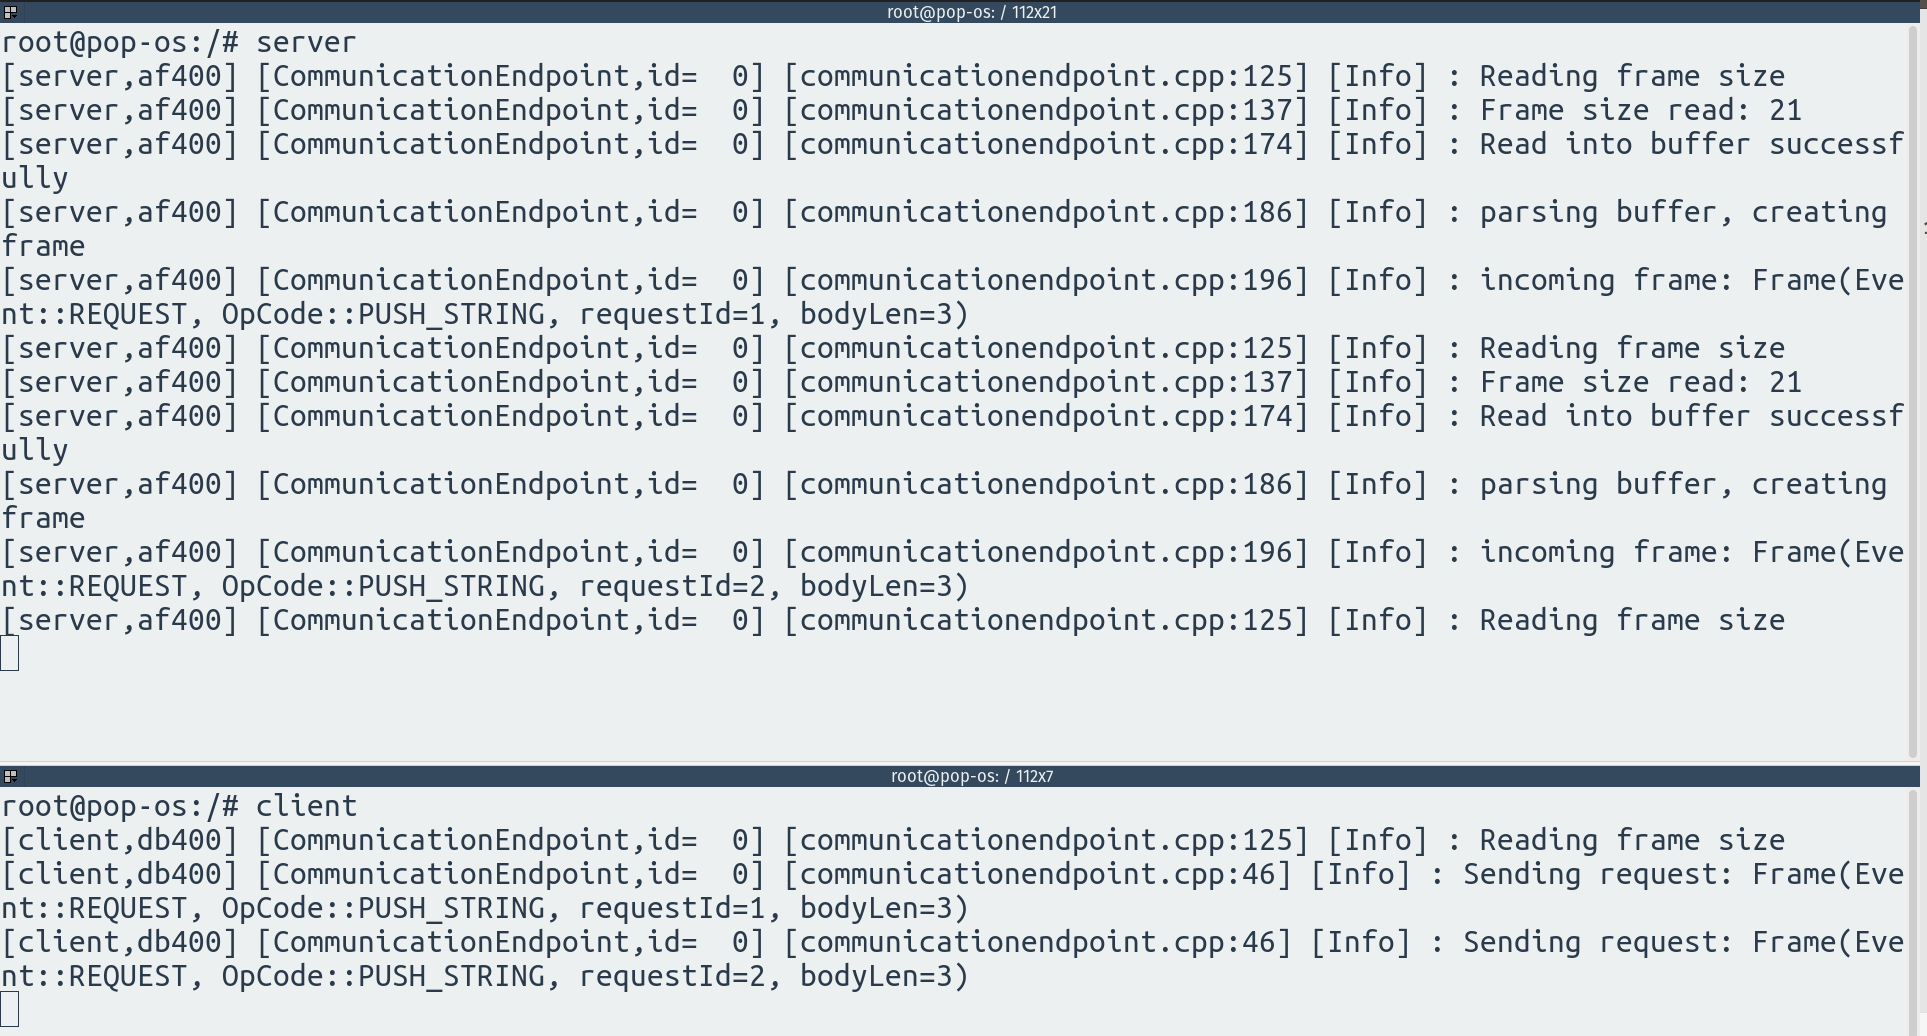
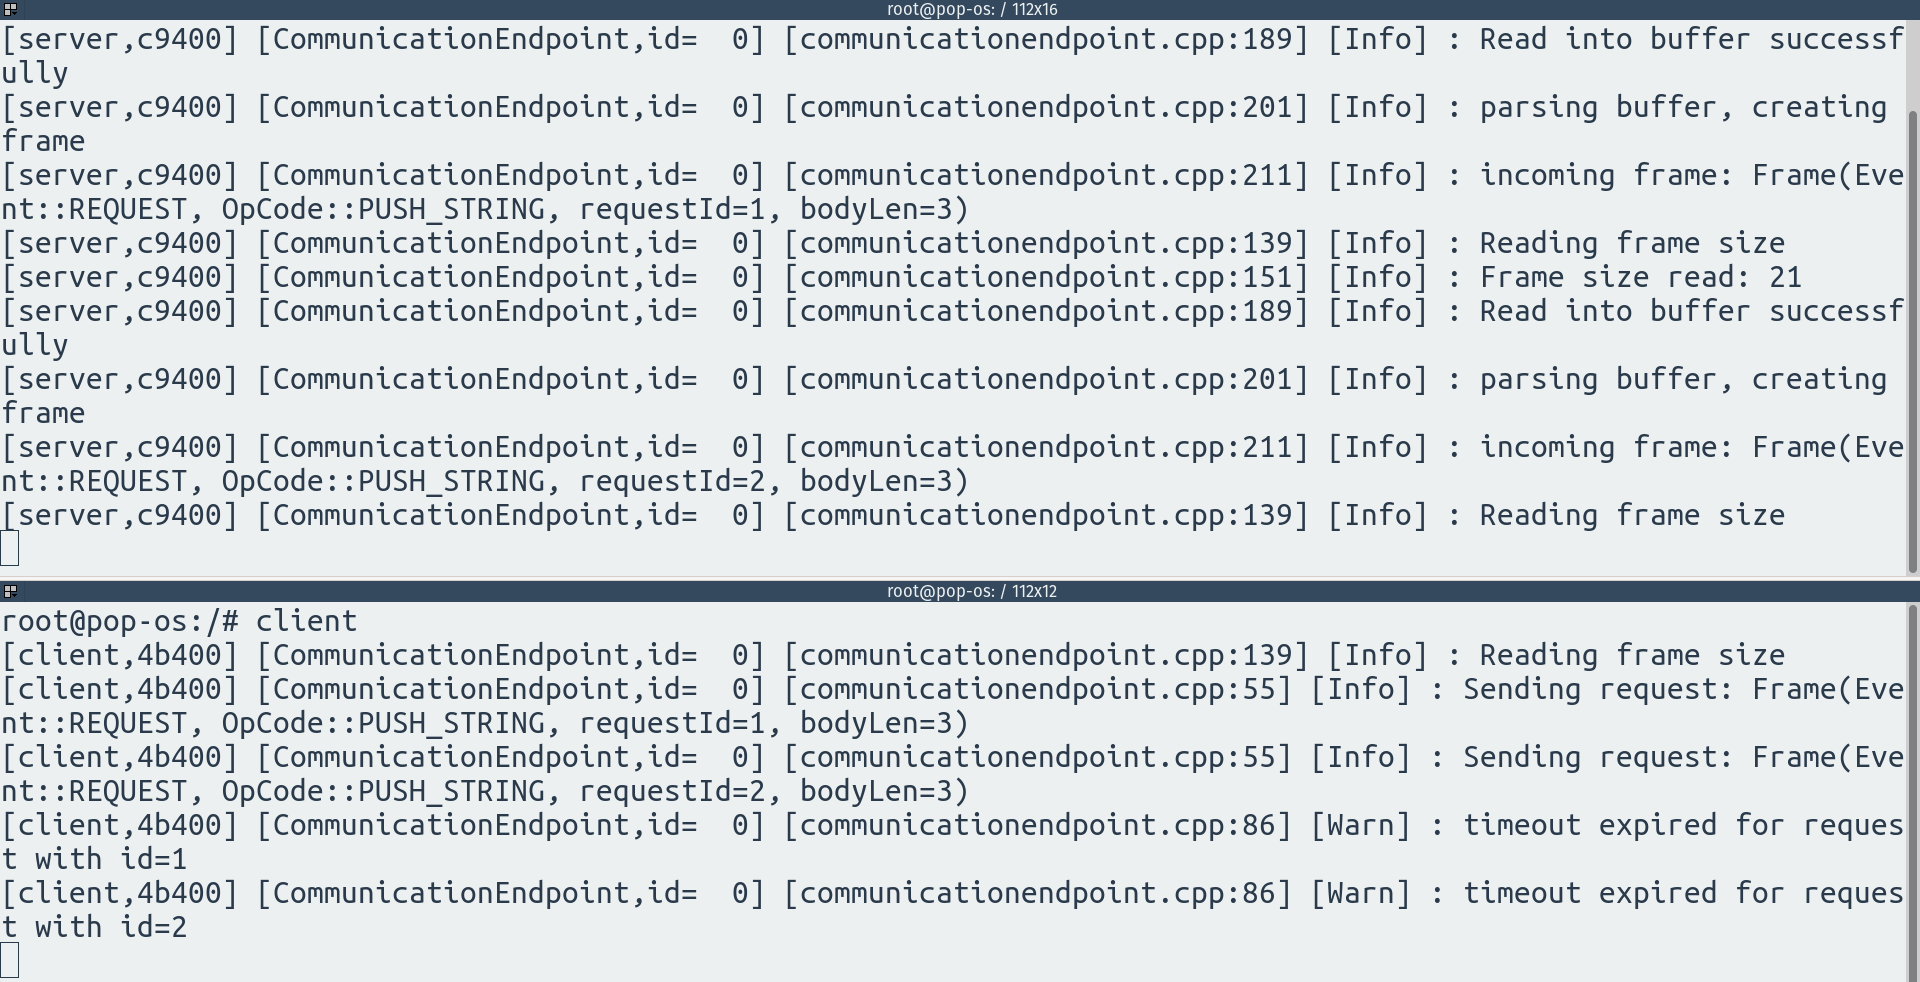
Fix timeout bug, add invalidation callback

Changed region(s): [[0.0, 0.0, 1.0, 1.0]]

diff --git a/libs/communicationendpoint/src/communicationendpoint.cpp b/libs/communicationendpoint/src/communicationendpoint.cpp
@@ -12,12 +12,16 @@ using namespace protocol;
 using error_code = boost::system::error_code;
 
 std::shared_ptr<CommunicationEndpoint>
-    CommunicationEndpoint::create(io_context         &context,
-                                  ip::tcp::socket     socket,
-                                  request_callback_fn requestCallback)
+    CommunicationEndpoint::create(io_context              &context,
+                                  ip::tcp::socket          socket,
+                                  request_callback_fn      requestCallback,
+                                  invalidation_callback_fn invalidationCallback)
 {
     return std::shared_ptr<CommunicationEndpoint>{ new CommunicationEndpoint{
-        context, std::move(socket), std::move(requestCallback) } };
+        context,
+        std::move(socket),
+        std::move(requestCallback),
+        std::move(invalidationCallback) } };
 }
 
 void CommunicationEndpoint::run()
@@ -34,12 +38,17 @@ void CommunicationEndpoint::sendRequest(request::Request     arg_request,
                                         response_callback_fn arg_responseCallback,
                                         const boost::posix_time::milliseconds &timeout)
 {
+    if (arg_responseCallback == nullptr)
+    {
+        arg_responseCallback = [](std::optional<protocol::response::Response>,
+                                  protocol::request::Request) {};
+    }
+
     if (!arg_request.valid() ||
         pendingRequests_.find(arg_request.requestId()) != pendingRequests_.end())
     {
         ID_LOGE << "Invalid request, executing response callback right away";
-        if (arg_responseCallback != nullptr)
-            arg_responseCallback(/* response */ {}, std::move(arg_request));
+        arg_responseCallback(/* response */ {}, std::move(arg_request));
         return;
     }
 
@@ -62,6 +71,7 @@ void CommunicationEndpoint::sendRequest(request::Request     arg_request,
             if (error)
             {
                 ID_LOGE << "Failed to write request frame";
+                invalidate();
             }
         });
 
@@ -70,16 +80,13 @@ void CommunicationEndpoint::sendRequest(request::Request     arg_request,
         [this, self = shared_from_this(), pendingRequest = std::move(pendingRequest), id](
             const error_code &error)
         {
-            if (!error)
+            if (error)
                 return;
 
             ID_LOGW << "timeout expired for request with id=" << id;
 
-            if (pendingRequest->responseCallback != nullptr)
-            {
-                pendingRequest->responseCallback(/* response */ {},
-                                                 std::move(pendingRequest->request));
-            }
+            pendingRequest->responseCallback(/* response */ {},
+                                             std::move(pendingRequest->request));
 
             if (auto it = pendingRequests_.find(id); it != pendingRequests_.end())
                 pendingRequests_.erase(it);
@@ -107,16 +114,23 @@ void CommunicationEndpoint::sendResponse(response::Response response)
                     if (error)
                     {
                         ID_LOGE << "Failed to write response frame";
+                        return invalidate();
                     }
                 });
 }
 
-CommunicationEndpoint::CommunicationEndpoint(io_context         &context,
-                                             ip::tcp::socket     socket,
-                                             request_callback_fn requestCallback)
+CommunicationEndpoint::CommunicationEndpoint(
+    io_context              &context,
+    ip::tcp::socket          socket,
+    request_callback_fn      requestCallback,
+    invalidation_callback_fn invalidationCallback)
     : context_{ context },
       socket_{ std::move(socket) },
-      requestCallback_{ std::move(requestCallback_) }
+      requestCallback_{ requestCallback == nullptr ? [](protocol::request::Request) {} :
+                                                     std::move(requestCallback_) },
+      invalidationCallback_{ invalidationCallback == nullptr ?
+                                 [](std::shared_ptr<CommunicationEndpoint>) {} :
+                                 std::move(invalidationCallback) }
 {
 }
 
@@ -131,7 +145,7 @@ void CommunicationEndpoint::readFrameSize()
                    if (error)
                    {
                        ID_LOGE << "Failed to read from socket: " << error.message();
-                       return;
+                       return invalidate();
                    }
 
                    ID_LOGI << "Frame size read: " << frameSize_;
@@ -144,7 +158,7 @@ void CommunicationEndpoint::readFrame()
     if (frameSize_ < sizeof(size_t))
     {
         ID_LOGE << "invalid frame size, exiting";
-        return;
+        return invalidate();
     }
 
     auto  bufOwner = std::make_unique<Buffer>(frameSize_);
@@ -154,7 +168,7 @@ void CommunicationEndpoint::readFrame()
     if (buf.invalidated())
     {
         ID_LOGE << "Failed to allocate buffer";
-        return;
+        return invalidate();
     }
 
     *reinterpret_cast<size_t *>(buf.data()) = frameSize_;
@@ -168,6 +182,7 @@ void CommunicationEndpoint::readFrame()
                    if (error)
                    {
                        ID_LOGE << "Failed to read frame";
+                       return invalidate();
                    }
                    else
                    {
@@ -244,6 +259,18 @@ void CommunicationEndpoint::parseResponse(response::Response response)
     }
 
     pendingRequest->timeoutTimer.cancel();
+}
+
+void CommunicationEndpoint::invalidate()
+{
+    socket_.close();
+
+    for (auto [_, pendingRequest] : pendingRequests_)
+        if (pendingRequest->responseCallback != nullptr)
+            pendingRequest->responseCallback(/* response */ {},
+                                             std::move(pendingRequest->request));
+
+    pendingRequests_.clear();
 }
 
 auto CommunicationEndpoint::PendingRequest::create(io_context          &context,

diff --git a/libs/communicationendpoint/include/communicationendpoint/communicationendpoint.h b/libs/communicationendpoint/include/communicationendpoint/communicationendpoint.h
@@ -24,8 +24,8 @@
  * @note it is guaranteed that response_callback_fn will be called
  * (either after timeout or when response arrives)
  *
- * CommunicationEndpoint is meant to have its own io_context (i.e. reside in a
- * separate thread)
+ * @note CommunicationEndpoint resides in a single thread, so the writes
+ * from different threads are not happening concurrently
  */
 class CommunicationEndpoint : public std::enable_shared_from_this<CommunicationEndpoint>,
                               private logger::IdEntity<CommunicationEndpoint>
@@ -39,11 +39,13 @@ public:
     using response_callback_fn =
         std::function<void(std::optional<protocol::response::Response> response,
                            protocol::request::Request                  request)>;
+    using invalidation_callback_fn =
+        std::function<void(std::shared_ptr<CommunicationEndpoint>)>;
 
-    static std::shared_ptr<CommunicationEndpoint>
-        create(boost::asio::io_context     &context,
-               boost::asio::ip::tcp::socket socket,
-               request_callback_fn          requestCallback);
+    static std::shared_ptr<CommunicationEndpoint> create(boost::asio::io_context &,
+                                                         boost::asio::ip::tcp::socket,
+                                                         request_callback_fn,
+                                                         invalidation_callback_fn);
 
     void run();
 
@@ -55,20 +57,24 @@ public:
     void   sendResponse(protocol::response::Response response);
 
 private:
-    CommunicationEndpoint(boost::asio::io_context     &context,
-                          boost::asio::ip::tcp::socket socket,
-                          request_callback_fn          requestCallback);
+    CommunicationEndpoint(boost::asio::io_context &,
+                          boost::asio::ip::tcp::socket,
+                          request_callback_fn,
+                          invalidation_callback_fn);
 
     void readFrameSize();
     void readFrame();
     void parseBuffer(protocol::Buffer);
     void parseResponse(protocol::response::Response);
 
-    boost::asio::io_context     &context_;
-    boost::asio::ip::tcp::socket socket_;
-    size_t                       frameSize_{};
-    const request_callback_fn    requestCallback_;
+    void invalidate();
 
+    boost::asio::io_context       &context_;
+    boost::asio::ip::tcp::socket   socket_;
+    const request_callback_fn      requestCallback_;
+    const invalidation_callback_fn invalidationCallback_;
+
+    size_t              frameSize_{};
     std::atomic<size_t> requestIdCounter_{};
 
     struct PendingRequest : public std::enable_shared_from_this<PendingRequest>

diff --git a/src/client.cpp b/src/client.cpp
@@ -35,7 +35,8 @@ int main()
     auto socket = ip::tcp::socket{ context };
 
     socket.connect(endpoint);
-    auto com = CommunicationEndpoint::create(context, std::move(socket), nullptr);
+    auto com =
+        CommunicationEndpoint::create(context, std::move(socket), nullptr, nullptr);
 
     com->run();
     com->sendRequest(protocol::request::PushString::form(1, std::string_view{ "acb" }),

diff --git a/src/server.cpp b/src/server.cpp
@@ -33,7 +33,8 @@ int main()
     auto socket = ip::tcp::socket{ context };
     acceptor.accept(socket);
 
-    auto com = CommunicationEndpoint::create(context, std::move(socket), nullptr);
+    auto com =
+        CommunicationEndpoint::create(context, std::move(socket), nullptr, nullptr);
     com->run();
 
     context.run();
